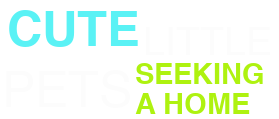
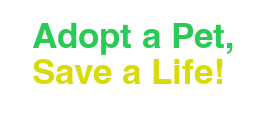
New paint

diff --git a/PetAdoptions/petsite/petsite/wwwroot/css/site.min.css b/PetAdoptions/petsite/petsite/wwwroot/css/site.min.css
@@ -1,1 +1,1 @@
-.pet-hero{background-image:url("../images/main_banner.png");background-size:cover;height:260px;width:100%}.pet-hero-title{position:relative;top:74.28571px}.pet-items{margin-top:1rem}.pet-item{margin-bottom:1.5rem;text-align:center;width:33%;display:inline-block;float:none !important}.pet-list-item{font-size:1rem;font-weight:300}@media screen and (max-width:1024px){.pet-item{width:50%}}@media screen and (max-width:768px){.pet-item{width:100%}}.pet-footer{background-color:#000;border-top:1px solid #eee;margin-top:2.5rem;padding-bottom:2.5rem;padding-top:2.5rem;width:100%;bottom:0}.pet-footer-brand{height:50px;width:230px}.pet-header{margin:0;background-color:#000}.pet-wrapper{display:flex;min-height:100vh;flex-direction:column;justify-content:space-between}.pet-filters{background-color:#0470e3;height:65px}.pet-filter{border-radius:.5rem;-webkit-appearance:none;background-color:transparent;border-color:#033c40;color:#fff;cursor:pointer;margin-right:1rem;margin-top:.5rem;min-width:140px;outline-color:#033c40;padding-bottom:0;padding-left:.5rem;padding-right:.5rem;padding-top:1.5rem}.pet-filter option{background-color:#5096e7}.pet-label{display:inline-block;position:relative;z-index:0}.pet-label::before{color:rgba(255,255,255,.5);content:attr(data-title);font-size:.65rem;margin-left:.5rem;margin-top:.65rem;position:absolute;text-transform:uppercase;z-index:1}.pet-label::after{background-image:url("../images/arrow-down.png");content:'';height:7px;position:absolute;right:1.5rem;top:2.5rem;width:10px;z-index:1}.pet-send{background-color:#dc7406;color:#efd912;cursor:pointer;font-size:1rem;margin-top:-1.5rem;transition:all .35s}.pet-send:hover{background-color:#db7603;transition:all .35s}.pet-thumbnail{max-width:370px;width:100%}.pet-button{border-radius:.5rem;background-color:#f59526;border:0;color:#fff;cursor:pointer;font-size:1rem;height:3rem;margin-top:1rem;transition:all .35s;width:80%}.pet-button.is-disabled{opacity:.5;pointer-events:none}.pet-button:hover{background-color:#864904;transition:all .35s}.pet-name{font-size:1rem;font-weight:300;margin-top:.5rem;text-align:center;text-transform:uppercase}.pet-price{font-size:28px;font-weight:900;text-align:center}.pet-price::before{content:'$'}a.navbar-brand{white-space:normal;text-align:center;word-break:break-all}a{color:#0366d6}.btn-primary{color:#fff;background-color:#1b6ec2;border-color:#1861ac}.nav-pills .nav-link.active,.nav-pills .show>.nav-link{color:#fff;background-color:#1b6ec2;border-color:#1861ac}html{font-size:14px}@media(min-width:768px){html{font-size:16px}}.border-top{border-top:1px solid #e5e5e5}.border-bottom{border-bottom:1px solid #e5e5e5}.box-shadow{box-shadow:0 .25rem .75rem rgba(0,0,0,.05)}button.accept-policy{font-size:1rem;line-height:inherit}html{position:relative;min-height:100%}body{margin-bottom:60px}.footer{position:absolute;bottom:0;width:100%;white-space:nowrap;line-height:60px}
+.pet-hero{background-image:url("../images/main_banner.png");background-size:cover;height:135px;width:100%}.pet-hero-title{position:relative;top:18.28571px}.pet-items{margin-top:1rem}.pet-item{margin-bottom:1.5rem;text-align:center;width:33%;display:inline-block;float:none !important}.pet-list-item{font-size:1rem;font-weight:300}@media screen and (max-width:1024px){.pet-item{width:50%}}@media screen and (max-width:768px){.pet-item{width:100%}}.pet-footer{background-color:#000;border-top:1px solid #eee;margin-top:2.5rem;padding-bottom:2.5rem;padding-top:2.5rem;width:100%;bottom:0}.pet-footer-brand{height:50px;width:230px}.pet-header{margin:0;background-color:#000}.pet-wrapper{display:flex;min-height:100vh;flex-direction:column;justify-content:flex-start}.pet-filters{background-color:rgba(19,126,68,.67);height:65px}.pet-filter{border-radius:.5rem;-webkit-appearance:none;background-color:transparent;border-color:#033c40;color:#fff;cursor:pointer;margin-right:1rem;margin-top:.5rem;min-width:140px;outline-color:#033c40;padding-bottom:0;padding-left:.5rem;padding-right:.5rem;padding-top:1.5rem}.pet-filter option{background-color:#5096e7}.pet-label{display:inline-block;position:relative;z-index:0}.pet-label::before{color:#e4ef44;content:attr(data-title);font-size:.8rem;font-weight:bold;margin-left:.5rem;margin-top:.65rem;position:absolute;text-transform:uppercase;z-index:1}.pet-label::after{background-image:url("../images/arrow-down.png");content:'';height:7px;position:absolute;right:1.5rem;top:2.5rem;width:10px;z-index:1}.pet-send{background-color:#dc7406;color:#efd912;cursor:pointer;font-size:1rem;margin-top:-1.5rem;transition:all .35s}.pet-send:hover{background-color:#db7603;transition:all .35s}.pet-thumbnail{max-width:370px;width:100%}.pet-button{border-radius:.5rem;background-color:#2d7f83;border:0;color:#fff;cursor:pointer;font-size:1rem;height:3rem;margin-top:1rem;transition:all .35s;width:50%}.pet-button.is-disabled{opacity:.5;pointer-events:none}.pet-button:hover{font-size:1.5rem;background-color:#0fa828;transition:all .35s}.pet-name{font-size:1rem;font-stretch:condensed;font-weight:300;margin-top:.5rem;text-align:center;text-transform:lowercase}.pet-price{font-size:25px;font-weight:400;text-align:center}.pet-price::before{content:'$'}a.navbar-brand{white-space:normal;text-align:center;word-break:break-all}a{color:#19dc91}.btn-primary{color:#fff;background-color:#19dc91;border-color:#19dc91}.nav-pills .nav-link.active,.nav-pills .show>.nav-link{color:#fff;background-color:#19dc91;border-color:#19dc91}html{font-size:14px}@media(min-width:768px){html{font-size:16px}}.border-top{border-top:1px solid #e5e5e5}.border-bottom{border-bottom:1px solid #e5e5e5}.box-shadow{box-shadow:0 .25rem .75rem rgba(0,0,0,.05)}button.accept-policy{font-size:1rem;line-height:inherit}html{position:relative;min-height:100%}body{margin-bottom:60px}.footer{position:absolute;bottom:0;width:100%;white-space:nowrap;line-height:60px}

diff --git a/PetAdoptions/petsite/petsite/wwwroot/css/petstyles.css b/PetAdoptions/petsite/petsite/wwwroot/css/petstyles.css
@@ -1,13 +1,13 @@
 .pet-hero {
     background-image: url("../images/main_banner.png");
     background-size: cover;
-    height: 260px;
+    height: 135px;
     width: 100%;
 }
 
 .pet-hero-title {
     position: relative;
-    top: 74.28571px;
+    top: 18.28571px;
 }
 
 .pet-items {
@@ -67,7 +67,7 @@
 
 
 .pet-filters {
-    background-color: #0470e3;
+    background-color: rgba(19, 126, 68, 0.67);
     height: 65px;
 }
 
@@ -98,9 +98,10 @@
     position: relative;
     z-index: 0; }
 .pet-label::before {
-    color: rgba(255, 255, 255, 0.5);
+    color: rgb(228, 239, 68);
     content: attr(data-title);
-    font-size: 0.65rem;
+    font-size: .8rem;
+    font-weight: bold;
     margin-left: 0.5rem;
     margin-top: 0.65rem;
     position: absolute;
@@ -134,7 +135,7 @@
 
 .pet-button {
     border-radius: .5rem;
-    background-color: #f59526;
+    background-color: #2d7f83;
     border: 0;
     color: #FFFFFF;
     cursor: pointer;
@@ -142,24 +143,26 @@
     height: 3rem;
     margin-top: 1rem;
     transition: all 0.35s;
-    width: 80%; }
+    width: 50%; }
 .pet-button.is-disabled {
     opacity: .5;
     pointer-events: none; }
 .pet-button:hover {
-    background-color: #864904;
+    font-size: 1.5rem;
+    background-color: #0fa828;
     transition: all 0.35s; }
 
 .pet-name {
     font-size: 1rem;
+    font-stretch:condensed;
     font-weight: 300;
     margin-top: .5rem;
     text-align: center;
-    text-transform: uppercase; }
+    text-transform: lowercase; }
 
 .pet-price {
-    font-size: 28px;
-    font-weight: 900;
+    font-size: 25px;
+    font-weight: 400;
     text-align: center; }
 .pet-price::before {
     content: '$'; }

diff --git a/PetAdoptions/petsite/petsite/wwwroot/css/site.css b/PetAdoptions/petsite/petsite/wwwroot/css/site.css
@@ -9,19 +9,19 @@ a.navbar-brand {
 
 /* Provide sufficient contrast against white background */
 a {
-  color: #0366d6;
+  color: #19dc91;
 }
 
 .btn-primary {
   color: #fff;
-  background-color: #1b6ec2;
-  border-color: #1861ac;
+  background-color: #19dc91;
+  border-color: #19dc91;
 }
 
 .nav-pills .nav-link.active, .nav-pills .show > .nav-link {
   color: #fff;
-  background-color: #1b6ec2;
-  border-color: #1861ac;
+  background-color: #19dc91;
+  border-color: #19dc91;
 }
 
 /* Sticky footer styles
